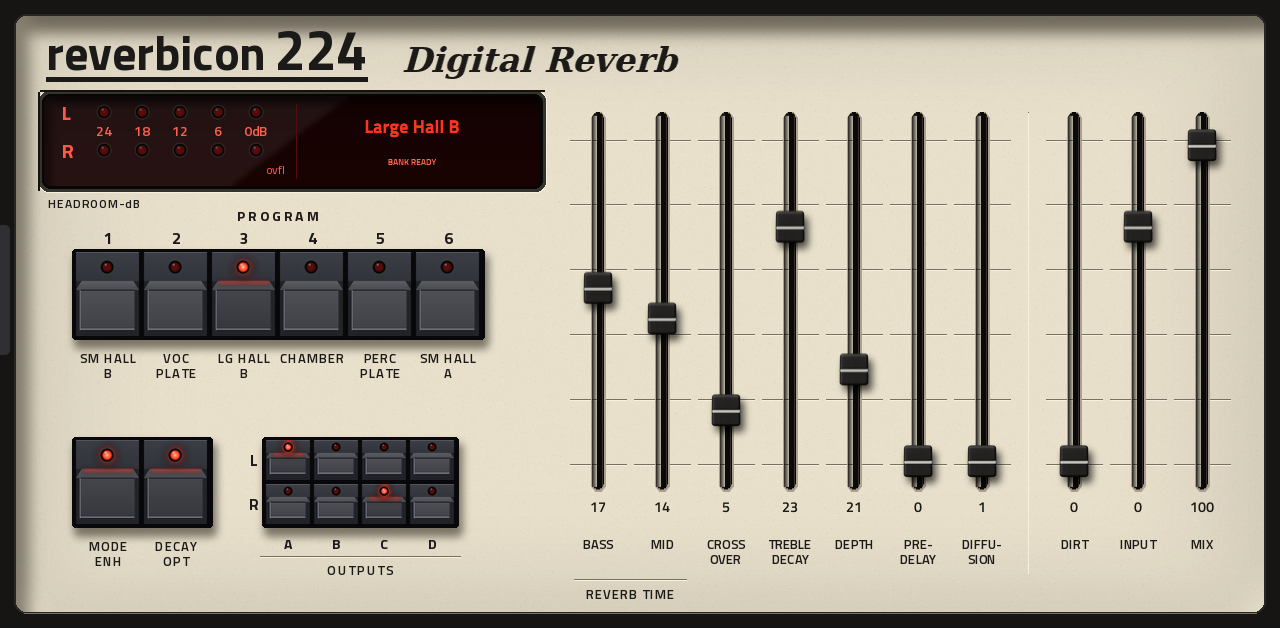
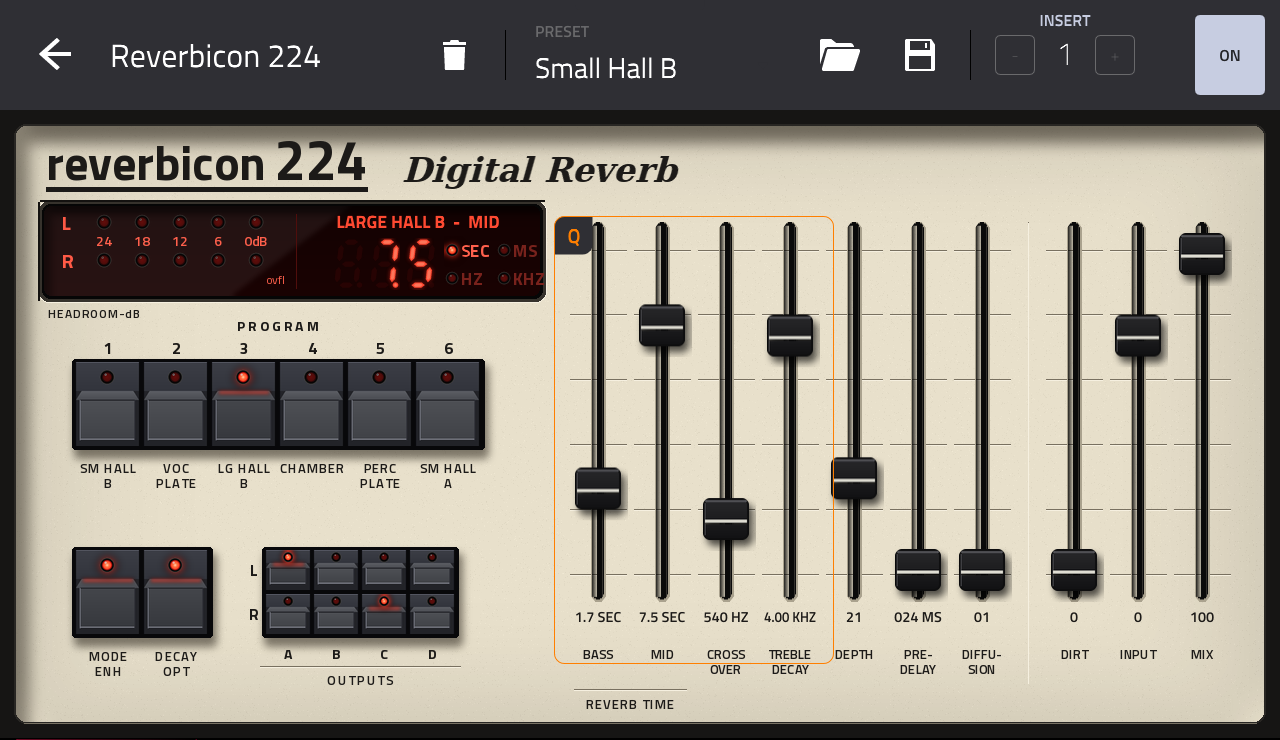
README screenshot (MPC Live III) and 1.0.0 release notes
Claude-Session: https://claude.ai/code/session_01CpoP2t8fCN2SDrVzbsTeJr

diff --git a/release/notes-1.0.0.md b/release/notes-1.0.0.md
@@ -1,0 +1,29 @@
+# Reverbicon 224 1.0.0
+
+The first release: the Lexicon 224's own v4.4 firmware running on an emulated 8080, DSP and converters, as a native MPC effect.
+
+## What it is
+- **The real firmware, not a model of its sound.** The 224's control computer runs the v4.4 ROMs and programs the DSP row by row;
+  audio goes through models of its gain-ranging converters and its input and output boards. The emulator is checked against
+  reflecticon-224, bit-exact where it can be.
+- **The 224's front panel, worked for you.** Program keys load programs through the firmware, sliders move its pots, DIFFUSION is on
+  its SHIFT page, Mode Enhancement and Decay Optimization are its PROG 7 and 8.
+- **Its own display.** The red LED readout shows the last slider you moved as the 224 shows it ("2.6 SEC", "8.80 KHZ", "024 MS"), and
+  the slider readouts use the same text.
+- Six programs, the four output pairs, Dirt (our optional converter/analog character), Input and Mix, a headroom meter, sixteen presets,
+  Q-Links on every slider.
+
+## You need your own ROMs
+Lexicon 224 **v4.4** ROM1 to ROM5 (2048 bytes each), from a 224 you own. They are not included. Put them in the plugin's `Content/ROMs/`
+folder, or pick them in the desktop installer's "Your ROMs and files" step. The display shows `STARTING`, then the program name.
+
+## Install
+- `Reverbicon-224-1.0.0-mpc-sdk.zip`: copy the folder `sd88me - VST - Reverbicon 224` into a `VST2 Plugins` folder on a drive of the MPC
+  (MPC OS 3.10.1 or later, with External Plugin Support on), and your ROMs into its `Content/ROMs/`.
+- `Reverbicon-224-1.0.0-mpc-aarch64.zip` / `-mpc-armv7.zip`: run `install.sh` on the device as root, or use the Plugin Manager.
+
+## Notes
+- Tested on an MPC Live III: about 18% of one core (p99 23%). The Force and 32-bit MPCs build is checked offline only (its output is
+  identical); expect about half a Force core.
+- A program change mutes the reverb for about 50 ms while the firmware loads the DSP, as on the hardware.
+- Licensed AGPL-3.0. Credits: reflecticon-224 by Joe Landers.
